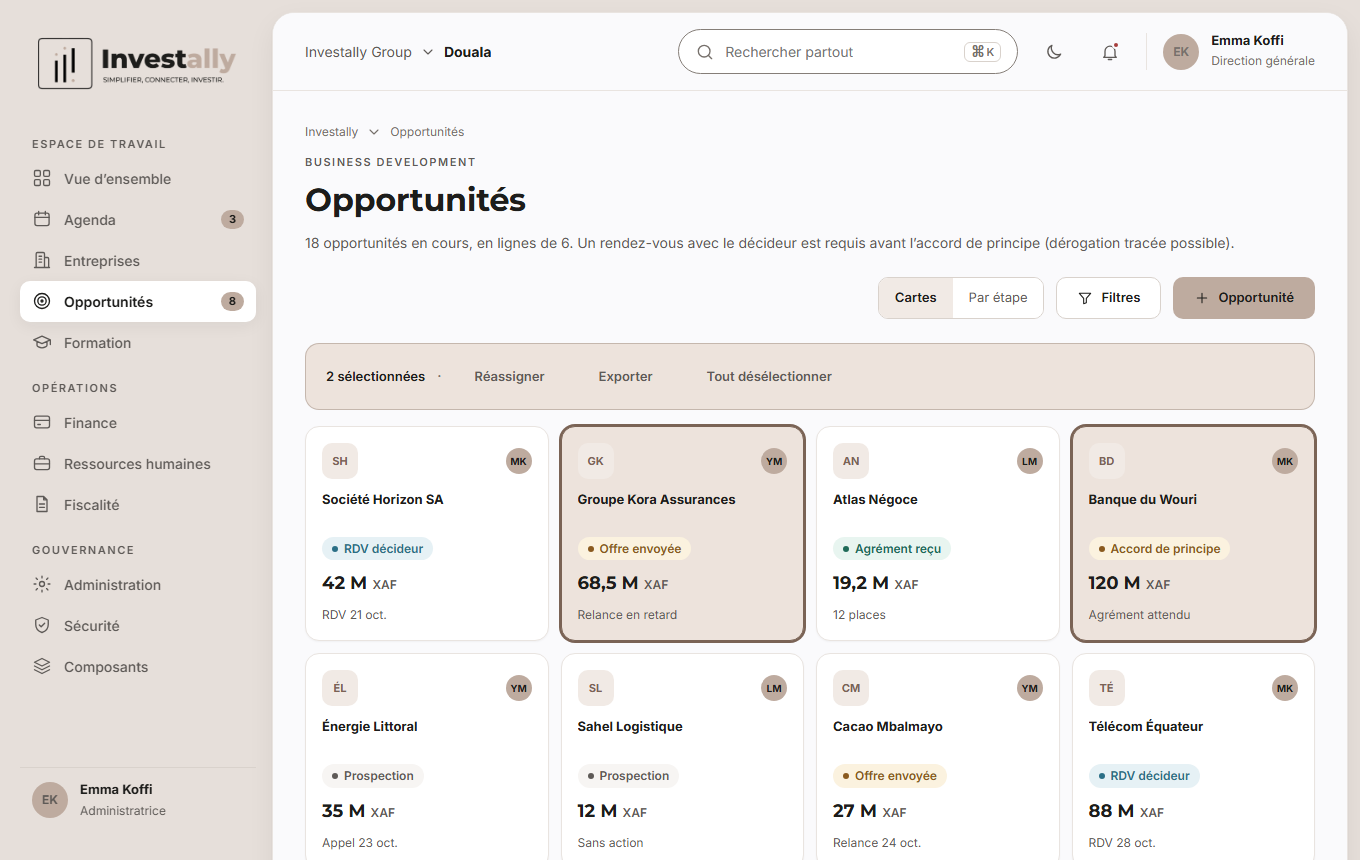
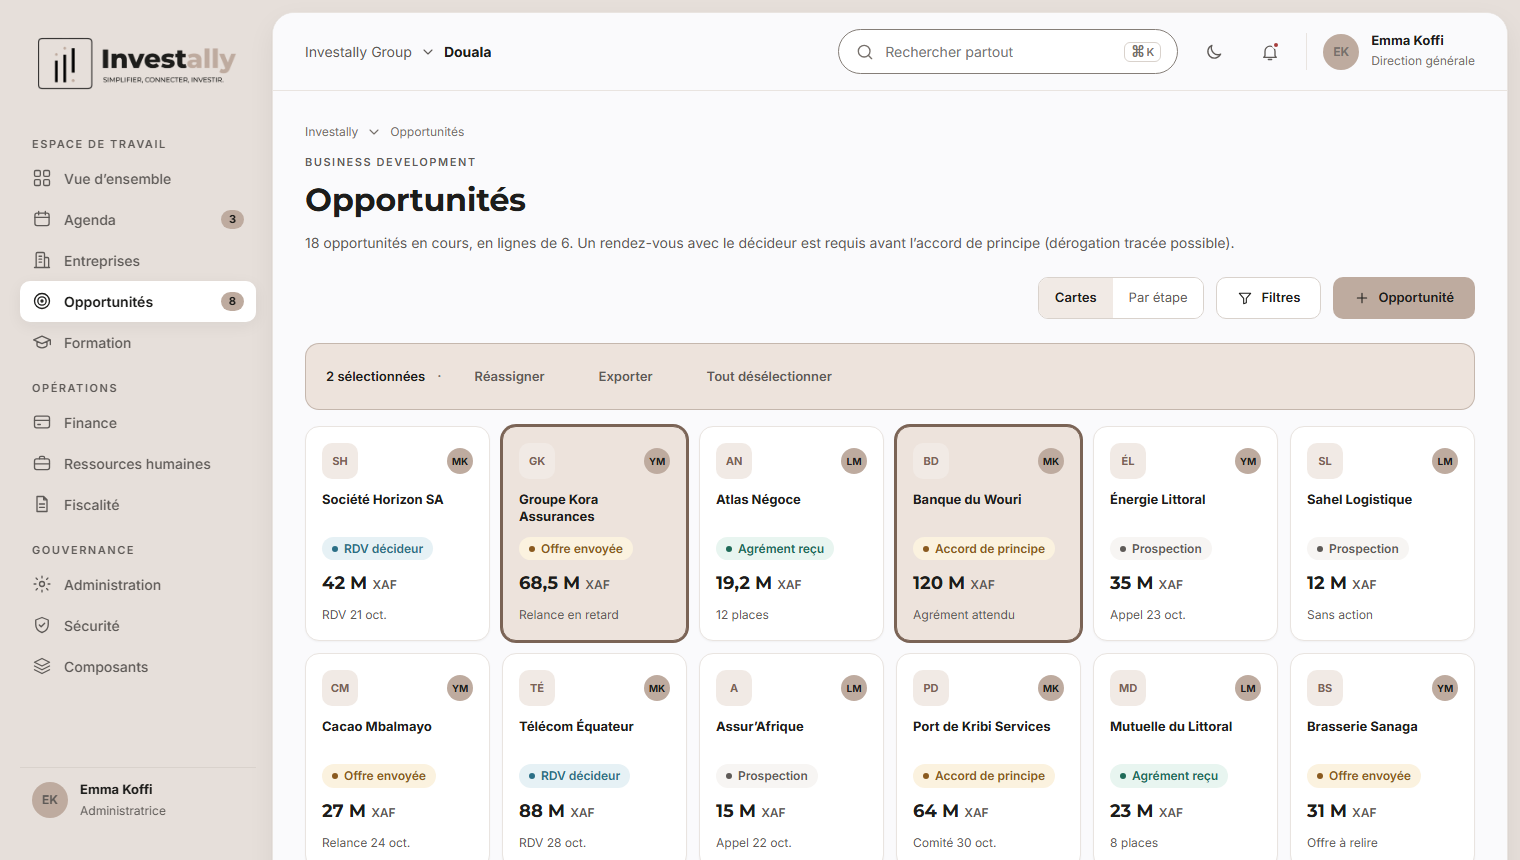
design: grille d'opportunites a 6 colonnes des 1360 px

diff --git a/docs/design/prototype/prototype.css b/docs/design/prototype/prototype.css
@@ -295,7 +295,7 @@ tbody tr { cursor: pointer; }
 .seg { display: inline-flex; gap: 0; border: 1px solid var(--line-strong); border-radius: var(--radius-sm); overflow: hidden; background: var(--surface); }
 .seg .tool { border: 0; border-radius: 0; }
 .seg .tool[aria-selected='true'] { background: var(--brand-soft); color: var(--ink); font-weight: 600; }
-@media (max-width: 1360px) { .opp-grid { grid-template-columns: repeat(4, minmax(0, 1fr)); } }
+@media (max-width: 1359px) { .opp-grid { grid-template-columns: repeat(4, minmax(0, 1fr)); } }
 @media (max-width: 1100px) { .opp-grid { grid-template-columns: repeat(3, minmax(0, 1fr)); } }
 @media (max-width: 760px) { .opp-grid { grid-template-columns: repeat(2, minmax(0, 1fr)); } }
 @media (max-width: 480px) { .opp-grid { grid-template-columns: 1fr; } }
